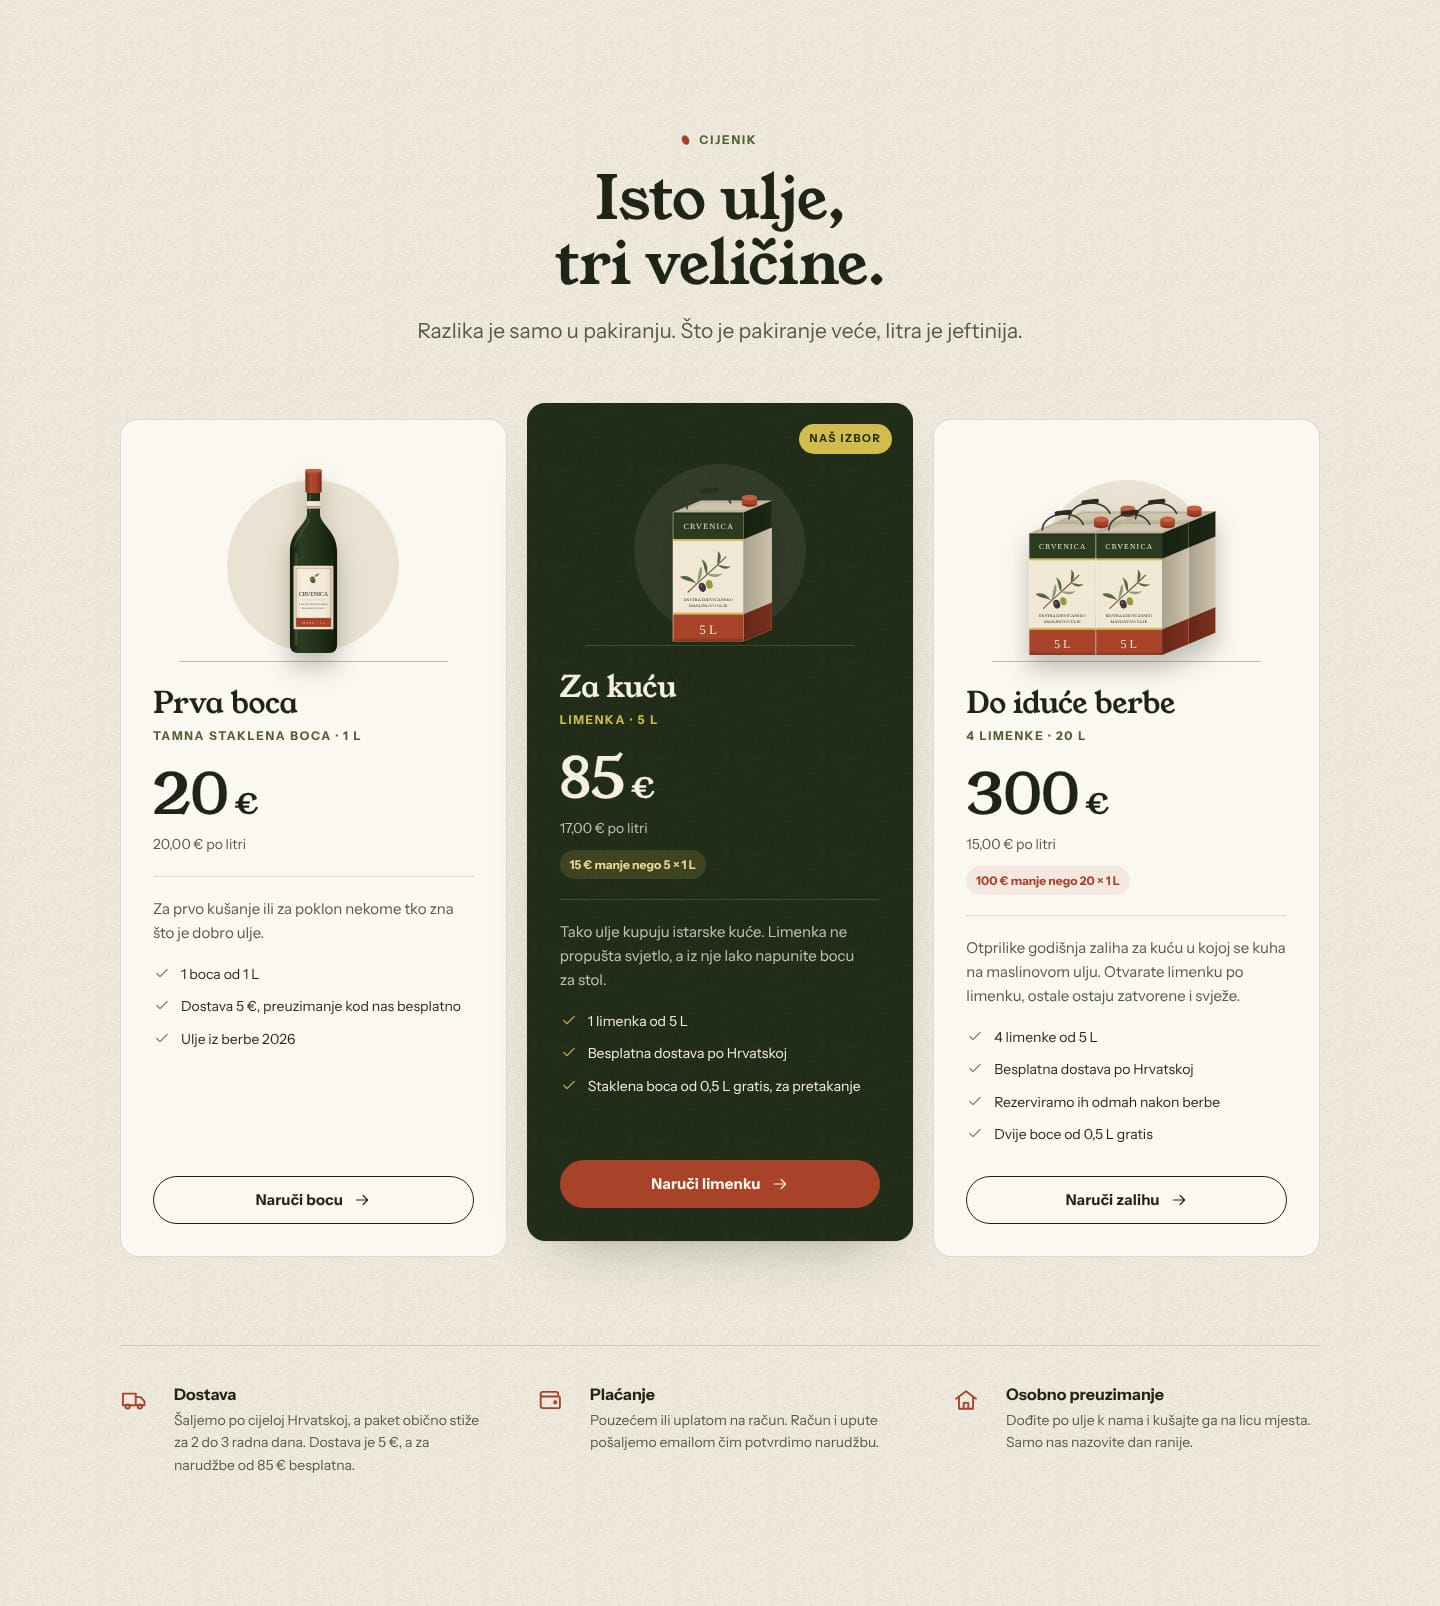
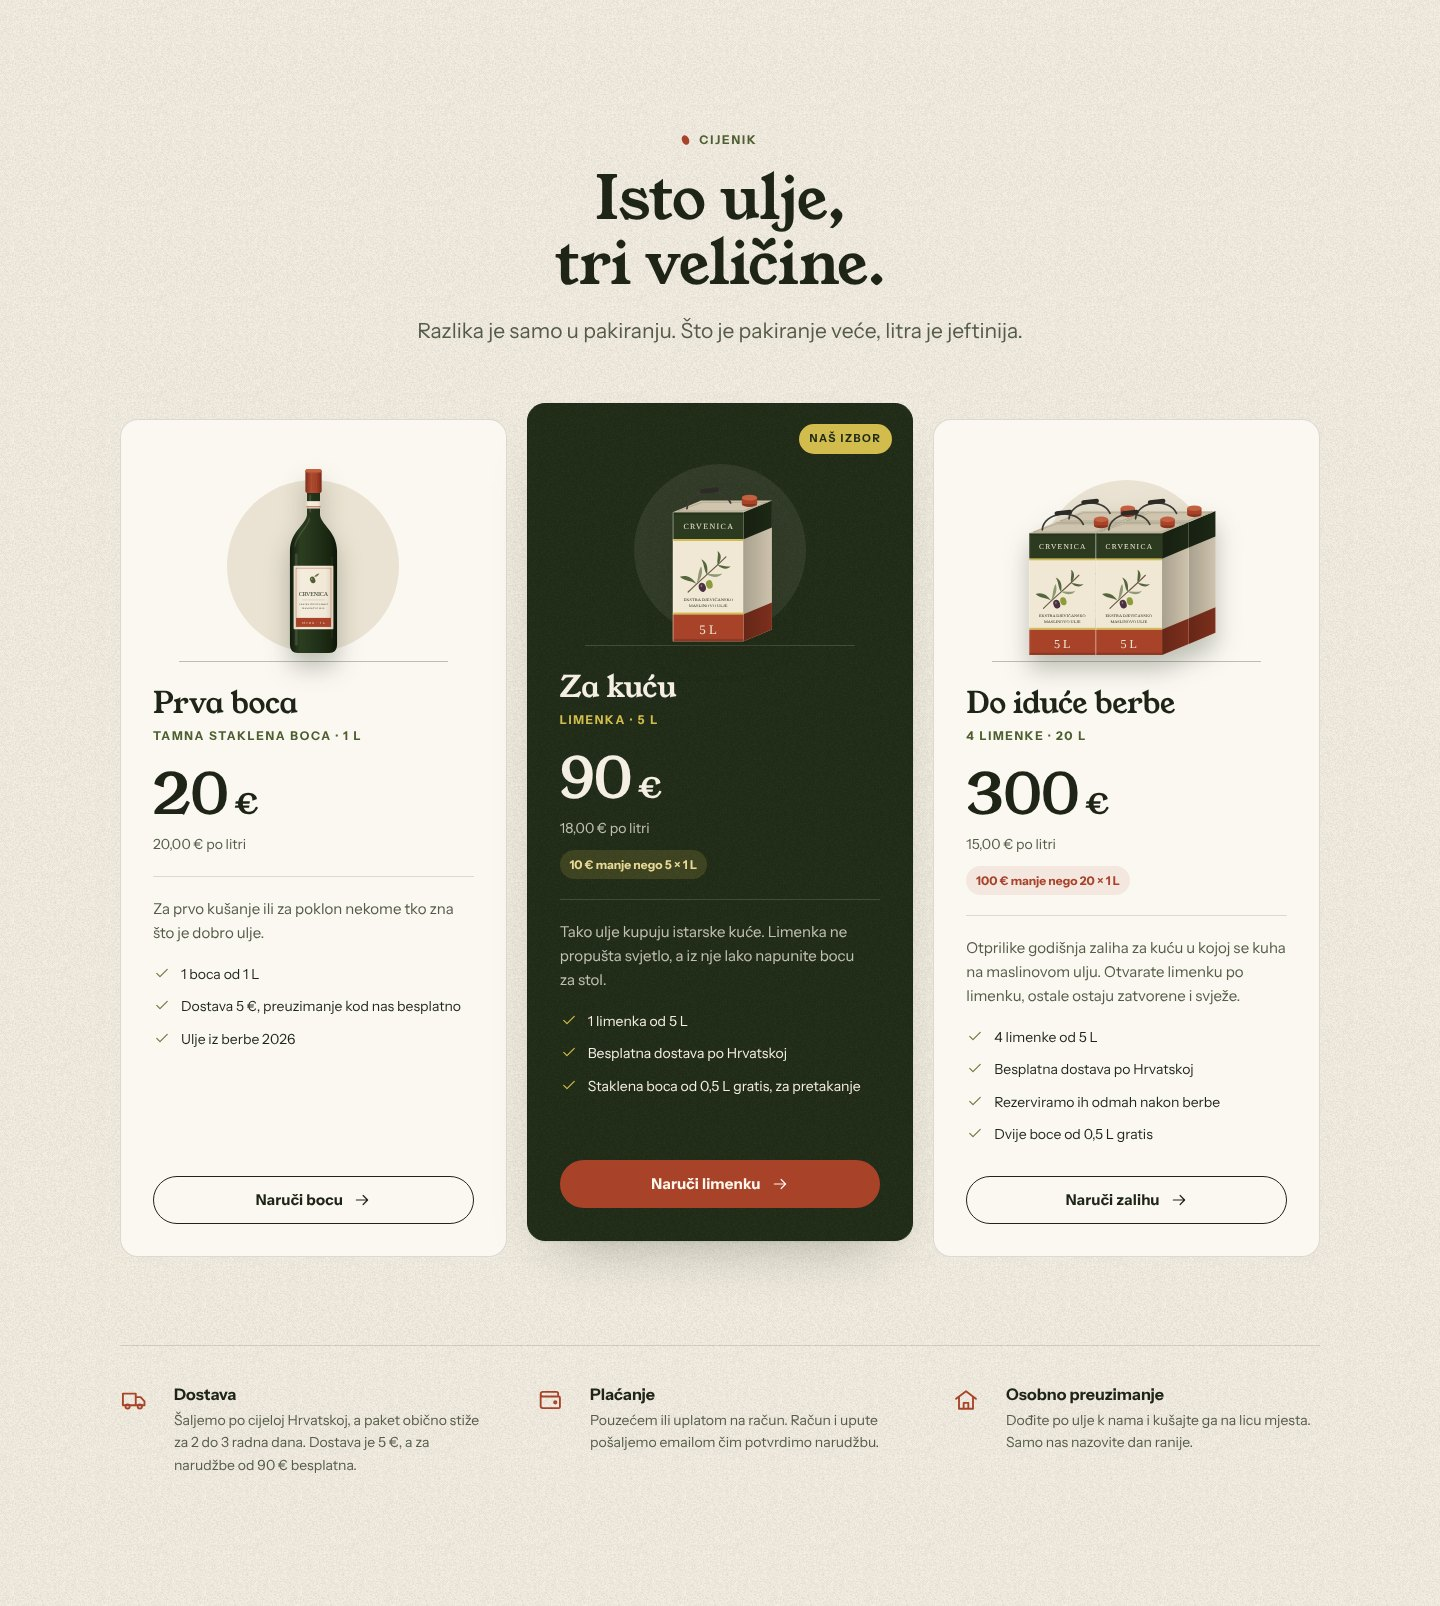
Ispravci sadržaja: hladno prešano, nono Bepo, paket Za kuću 90 €
- "Hladno cijeđeno" -> "Hladno prešano" (EN: cold pressed), u stranici i README-ima
- Ime djeda: Bepi -> Bepo
- Paket Za kuću (5 L): 85 € -> 90 € (18 €/L); besplatna dostava od 90 €
- Osvježene slike u docs/screenshots

Claude-Session: https://claude.ai/code/session_01PazdurBb85VreofbT6ebkG

Changed region(s): [[0.375, 0.467, 0.4688, 0.5604], [0.1875, 0.9029, 0.25, 0.934]]

diff --git a/index.html b/index.html
@@ -249,7 +249,7 @@
           <li class="hero__fact"><svg class="icon" aria-hidden="true"><use href="#i-leaf"></use></svg><span data-en="No spraying">Bez prskanja</span></li>
           <li class="hero__fact"><svg class="icon" aria-hidden="true"><use href="#i-basket"></use></svg><span data-en="Picked by hand">Ručna berba</span></li>
           <li class="hero__fact"><svg class="icon" aria-hidden="true"><use href="#i-clock"></use></svg><span data-en="Milled the same day">U uljari isti dan</span></li>
-          <li class="hero__fact"><svg class="icon" aria-hidden="true"><use href="#i-thermo"></use></svg><span data-en="Cold extracted, below 27 °C">Hladno cijeđeno, ispod 27 °C</span></li>
+          <li class="hero__fact"><svg class="icon" aria-hidden="true"><use href="#i-thermo"></use></svg><span data-en="Cold pressed, below 27 °C">Hladno prešano, ispod 27 °C</span></li>
         </ul>
       </div>
     </section>
@@ -279,7 +279,7 @@
           <h2 class="section-title" id="about-title" data-en="Our grandfather planted the grove.">Maslinik je posadio nono.</h2>
 
           <div class="about__text">
-            <p data-en="Nono Bepi, our grandfather, planted the first trees in 1974, on land that used to be a vineyard. Today the two of us look after 640 trees, and the kids come to help at weekends during the harvest.">Prva stabla posadio je nono Bepi 1974., na zemlji gdje je prije bio vinograd. Danas se o 640 stabala brinemo nas dvoje, a djeca vikendom dolaze na berbu.</p>
+            <p data-en="Nono Bepo, our grandfather, planted the first trees in 1974, on land that used to be a vineyard. Today the two of us look after 640 trees, and the kids come to help at weekends during the harvest.">Prva stabla posadio je nono Bepo 1974., na zemlji gdje je prije bio vinograd. Danas se o 640 stabala brinemo nas dvoje, a djeca vikendom dolaze na berbu.</p>
             <p data-en="We don't spray, not against the olive fly and not against weeds. We mow the grass between the trees and give the prunings back to the soil. We get a smaller crop that way, but this is the oil our own family eats.">Ne prskamo, ni protiv muhe ni protiv korova. Travu između stabala kosimo, a granje od rezidbe vraćamo zemlji. Prinos je zato manji, ali ovo ulje prije svega jedemo mi.</p>
             <p data-en="We sell what's left once our own tins are full. Some years that's a lot, some years not much. When it's gone, it's gone until the next harvest.">Prodajemo ono što ostane nakon što napunimo svoje kante. Neke godine to je puno, neke malo. Kad nestane, nestalo je do iduće berbe.</p>
           </div>
@@ -522,7 +522,7 @@
           <li class="step">
             <span class="step__num" aria-hidden="true">2</span>
             <h3 class="step__title" data-en="Milled the same day">U uljari isti dan</h3>
-            <p class="step__text" data-en="Less than six hours pass between tree and mill. The oil is extracted cold, below 27 °C, so it keeps its aroma.">Od stabla do uljare prođe manje od šest sati. Ulje se cijedi hladno, ispod 27 °C, da zadrži miris.</p>
+            <p class="step__text" data-en="Less than six hours pass between tree and mill. The olives are cold pressed, below 27 °C, so the oil keeps its aroma.">Od stabla do uljare prođe manje od šest sati. Masline se hladno prešaju, ispod 27 °C, da ulje zadrži miris.</p>
           </li>
           <li class="step">
             <span class="step__num" aria-hidden="true">3</span>
@@ -580,7 +580,7 @@
           </article>
 
           <!-- PAKET 2: 5 L (istaknut: package--featured) -->
-          <article class="package package--featured" data-package="5l" data-price="85" data-liters="5" aria-labelledby="package-5l">
+          <article class="package package--featured" data-package="5l" data-price="90" data-liters="5" aria-labelledby="package-5l">
             <p class="package__badge" data-en="Our pick">Naš izbor</p>
             <div class="package__media">
               <img class="package__img package__img--tin" src="assets/img/tin-5l.svg" width="200" height="300" loading="lazy"
@@ -588,7 +588,7 @@
             </div>
             <h3 class="package__name" id="package-5l" data-package-name data-en="For the kitchen">Za kuću</h3>
             <p class="package__size" data-en="Tin · 5 L">Limenka · 5 L</p>
-            <p class="package__price" data-package-price>85 €</p>
+            <p class="package__price" data-package-price>90 €</p>
             <p class="package__per-liter" data-package-per-liter></p>
             <p class="package__saving" data-package-saving hidden></p>
             <p class="package__desc" data-en="This is how Istrian households buy it. The tin keeps out the light, and it's easy to fill a bottle for the table.">Tako ulje kupuju istarske kuće. Limenka ne propušta svjetlo, a iz nje lako napunite bocu za stol.</p>
@@ -638,7 +638,7 @@
             <p class="info-item__text">
               <span data-en="We ship anywhere in Croatia, and parcels usually arrive in 2 to 3 working days. Delivery is">Šaljemo po cijeloj Hrvatskoj, a paket obično stiže za 2 do 3 radna dana. Dostava je</span>
               <span data-fill="deliveryPrice">5 €</span><span data-en=", free on orders from">, a za narudžbe od</span>
-              <span data-fill="freeDeliveryFrom">85 €</span><span data-en=".">&nbsp;besplatna.</span>
+              <span data-fill="freeDeliveryFrom">90 €</span><span data-en=".">&nbsp;besplatna.</span>
             </p>
           </li>
           <li class="info-item">

diff --git a/script.js b/script.js
@@ -42,7 +42,7 @@ const SETTINGS = {
 
   harvestYear: 2026,                     // godina berbe ulja koje trenutno prodajete (piše se na više mjesta)
   deliveryPrice: 5,                      // cijena dostave u eurima
-  freeDeliveryFrom: 85,                  // od ovog iznosa narudžbe dostava je besplatna (0 = dostava se uvijek plaća)
+  freeDeliveryFrom: 90,                  // od ovog iznosa narudžbe dostava je besplatna (0 = dostava se uvijek plaća)
   maxQuantity: 20,                       // najveća količina jednog paketa koja se može upisati u formi
 
   // PROMIJENI: koordinate imanja. Na Google kartama desni klik na mjesto -> klik na brojeve -> zalijepi ovdje.
@@ -63,7 +63,7 @@ const SETTINGS = {
 
 const TEXTS = {
   hr: {
-    locale: "hr-HR",                                         // oblik brojeva i datuma (85 €, 17,00 €)
+    locale: "hr-HR",                                         // oblik brojeva i datuma (90 €, 18,00 €)
     languageName: "hrvatski",
     menuOpen: "Otvori izbornik",
     menuClose: "Zatvori izbornik",
@@ -112,7 +112,7 @@ const TEXTS = {
   },
 
   en: {
-    locale: "en-IE",                                         // engleski s eurom (€85, €17.00)
+    locale: "en-IE",                                         // engleski s eurom (€90, €18.00)
     languageName: "English",
     menuOpen: "Open menu",
     menuClose: "Close menu",
@@ -181,7 +181,7 @@ function hasLanguage(lang) {
 // Ime događaja koji javlja da je promijenjen jezik (ostali dijelovi ga slušaju)
 const LANGUAGE_EVENT = "site:language";
 
-// Vraća tekst iz TEXTS za trenutni jezik i u njega upisuje vrijednosti, npr. t("perLiter", { price: "17 €" })
+// Vraća tekst iz TEXTS za trenutni jezik i u njega upisuje vrijednosti, npr. t("perLiter", { price: "18 €" })
 function t(key, values = {}) {
   const text = TEXTS[currentLang][key] ?? TEXTS.hr[key] ?? key;   // ako nema prijevoda, uzmi hrvatski
   return fillTemplate(text, values);
@@ -192,7 +192,7 @@ function fillTemplate(text, values) {
   return String(text).replace(/\{(\w+)\}/g, (match, name) => (name in values ? values[name] : match));
 }
 
-// Treba li cijena decimale? 85 -> ne, 17.5 -> da
+// Treba li cijena decimale? 90 -> ne, 17.5 -> da
 function decimalsFor(amount) {
   return Number.isInteger(amount) ? 0 : 2;
 }
@@ -218,7 +218,7 @@ function currencyOptions(decimals) {
   return { style: "currency", currency: "EUR", minimumFractionDigits: decimals, maximumFractionDigits: decimals };
 }
 
-// Cijena u eurima prema jeziku: "85 €" na hrvatskom, "€85" na engleskom
+// Cijena u eurima prema jeziku: "90 €" na hrvatskom, "€90" na engleskom
 function formatPrice(amount, decimals = decimalsFor(amount), lang = currentLang) {
   return numberFormatter(TEXTS[lang].locale, currencyOptions(decimals)).format(amount);
 }
@@ -540,7 +540,7 @@ function getPackages() {
   return $$("[data-package]")
     .map((card) => ({
       id: card.dataset.package,                              // npr. "5l"
-      price: Number(card.dataset.price),                     // npr. 85
+      price: Number(card.dataset.price),                     // npr. 90
       liters: Number(card.dataset.liters),                   // npr. 5
       card,                                                  // sam HTML element kartice
     }))
@@ -560,7 +560,7 @@ function deliveryCost(orderTotal) {
   return free ? 0 : SETTINGS.deliveryPrice;
 }
 
-// Ispis cijene s manjim znakom €: <span class="price__number">85</span><span class="price__currency">€</span>
+// Ispis cijene s manjim znakom €: <span class="price__number">90</span><span class="price__currency">€</span>
 function renderPrice(el, amount) {
   const parts = numberFormatter(TEXTS[currentLang].locale, currencyOptions(decimalsFor(amount))).formatToParts(amount);
 

diff --git a/README.md b/README.md
@@ -79,7 +79,7 @@ Open `index.html` by double-clicking it: everything works offline too, apart fro
 **Prices and packages.** Change `data-price` and `data-liters` on the package card in `index.html`:
 
 ```html
-<article class="package" data-package="5l" data-price="85" data-liters="5">
+<article class="package" data-package="5l" data-price="90" data-liters="5">
 ```
 
 To add a package, copy a whole `<article class="package">` and change its data and texts.
@@ -113,7 +113,7 @@ When the site moves to its own domain, replace `https://mpajkov.github.io/crveni
 ## Before going live (EU rules for olive-oil sellers)
 
 - **"Organic", "bio"** may only appear with a certificate (EU Regulation 2018/848). The page says "no spraying" and explains in the FAQ that there is no certificate.
-- **"Cold extracted"** may only be used if the oil was obtained below 27 °C (EU Regulation 29/2012). Remove it if that is not true for your oil.
+- **"Cold pressed"** may only be used if the oil was obtained below 27 °C (EU Regulation 29/2012). The official term "first cold pressing" is for traditional hydraulic presses; if the mill uses a centrifuge, the legal term is "cold extraction".
 - **Health claims** about polyphenols need the lab result that proves them (EU Regulation 432/2012), so the page makes none.
 - The "10 times best olive-growing region" line refers to Istria as a region (Flos Olei guide) and links to its source. Update the number when a new edition comes out.
 

diff --git a/README.hr.md b/README.hr.md
@@ -79,7 +79,7 @@ Otvori `index.html` dvoklikom: sve radi i bez interneta, osim slanja forme.
 **Cijene i paketi.** Promijeni `data-price` i `data-liters` na kartici paketa u `index.html`:
 
 ```html
-<article class="package" data-package="5l" data-price="85" data-liters="5">
+<article class="package" data-package="5l" data-price="90" data-liters="5">
 ```
 
 Za novi paket kopiraj cijeli `<article class="package">` i promijeni podatke i tekstove.
@@ -113,7 +113,7 @@ Kad stranica dobije vlastitu domenu, zamijeni `https://mpajkov.github.io/crvenic
 ## Prije objave (pravila EU-a za prodavače maslinovog ulja)
 
 - **"Ekološko", "bio"** smije pisati samo uz certifikat (EU uredba 2018/848). Stranica zato piše "bez prskanja", a u pitanjima objašnjava da certifikata nema.
-- **"Hladno cijeđeno"** smije pisati samo ako je ulje dobiveno ispod 27 °C (EU uredba 29/2012). Ako to za vaše ulje nije točno, makni.
+- **"Hladno prešano"** smije pisati samo ako je ulje dobiveno ispod 27 °C (EU uredba 29/2012). Službeni izraz "prvo hladno prešanje" vrijedi za tradicionalnu hidrauličnu prešu; ako uljara radi s centrifugom, zakonski izraz je "hladno cijeđeno".
 - **Zdravstvene tvrdnje** o polifenolima trebaju nalaz koji ih dokazuje (EU uredba 432/2012), pa ih stranica nema.
 - Tvrdnja "10 puta najbolja maslinarska regija" odnosi se na Istru kao regiju (vodič Flos Olei) i ima poveznicu na izvor. Broj ažuriraj kad izađe novo izdanje.
 
